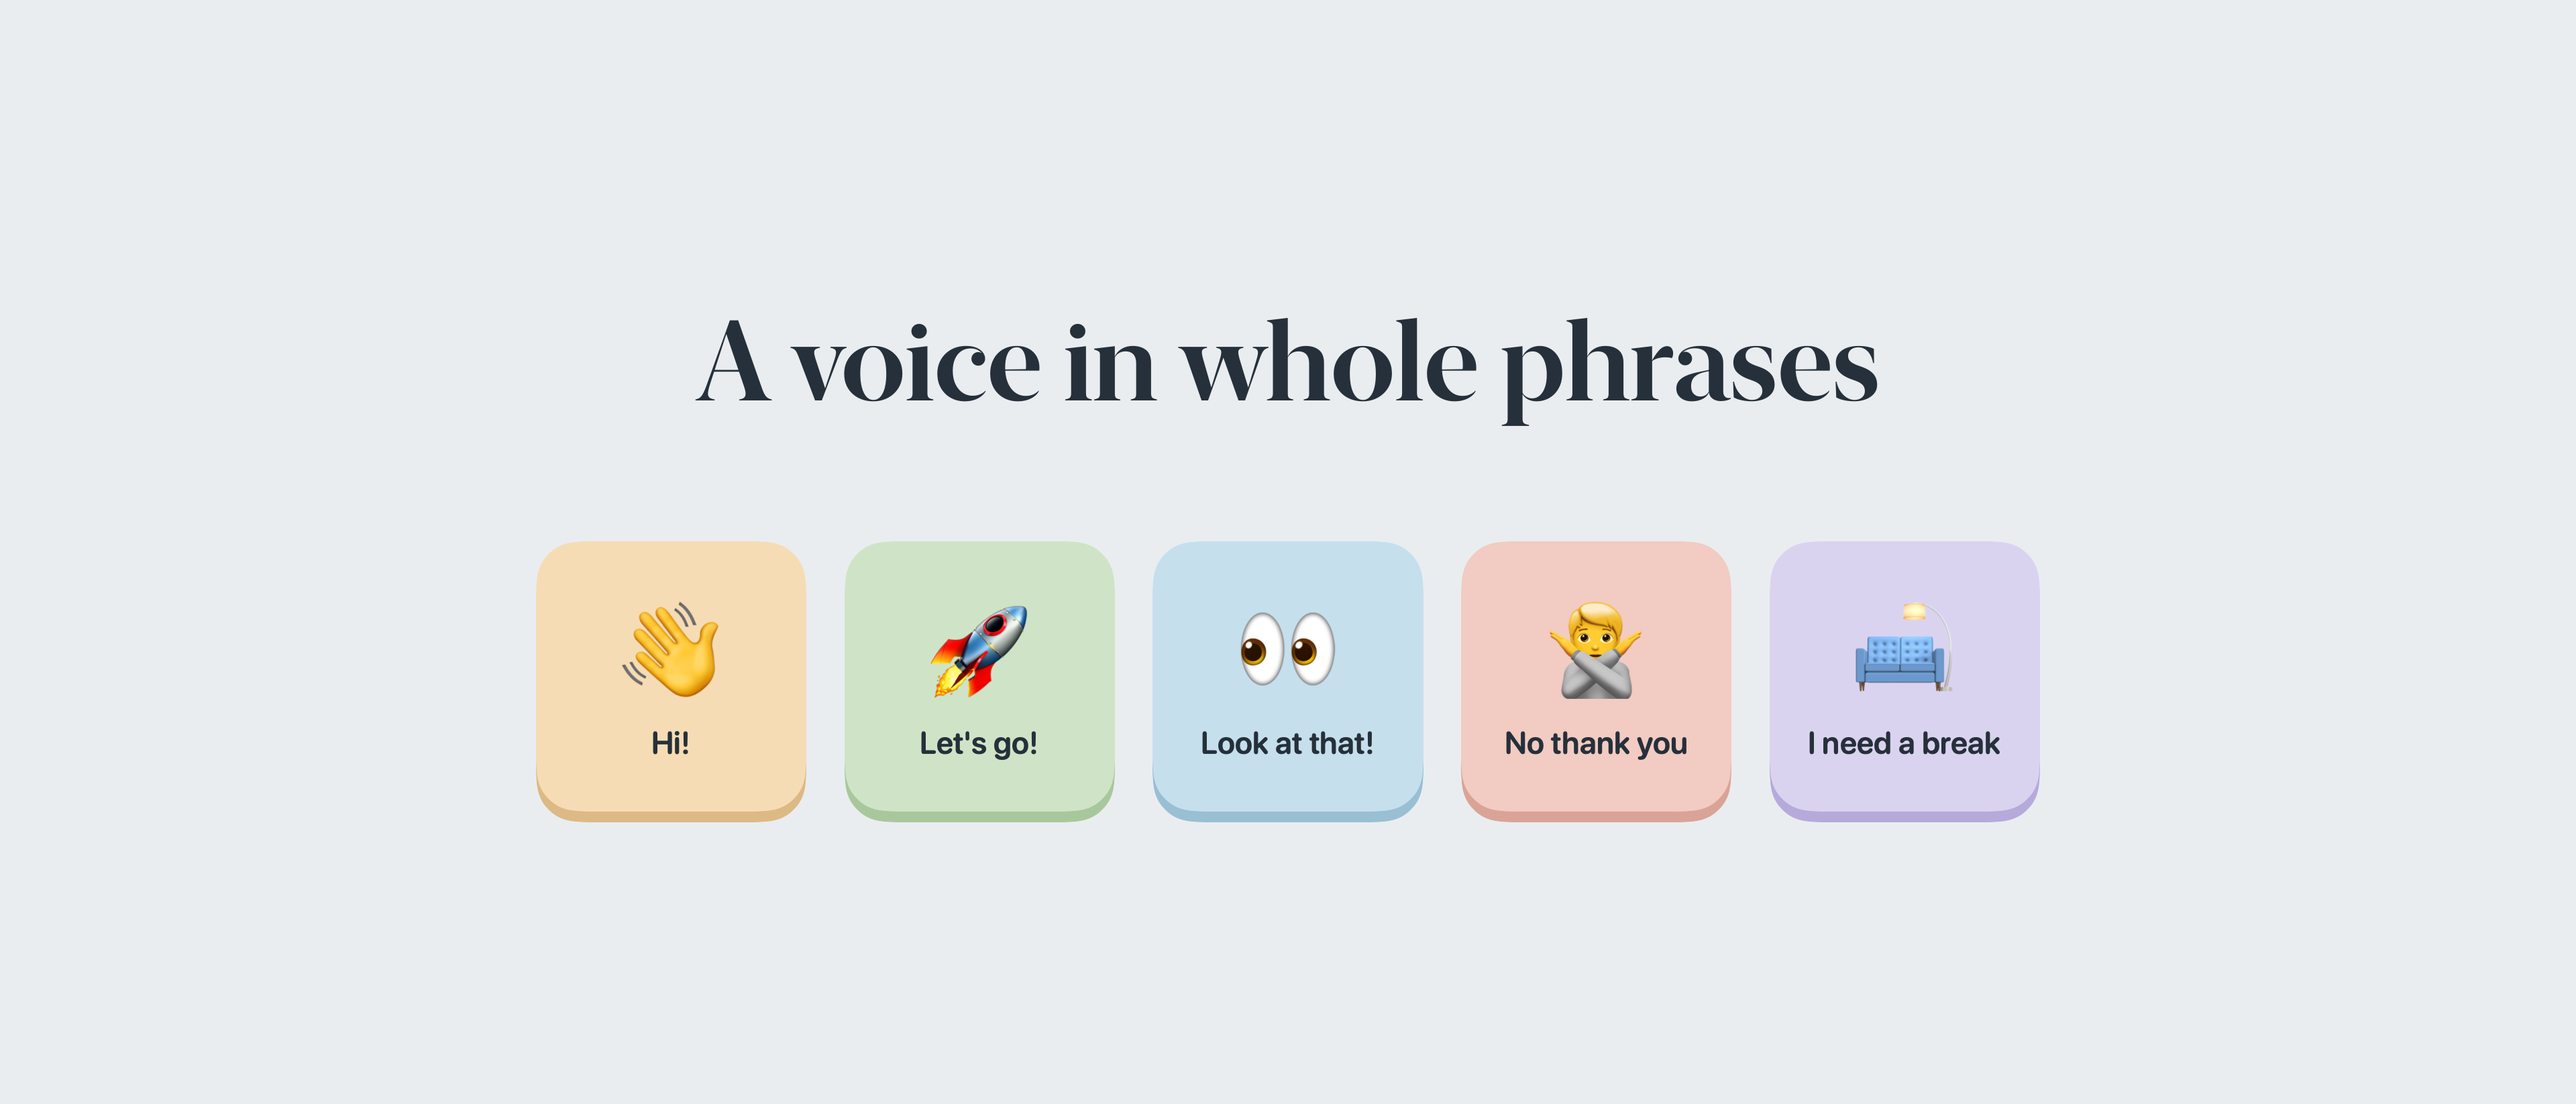
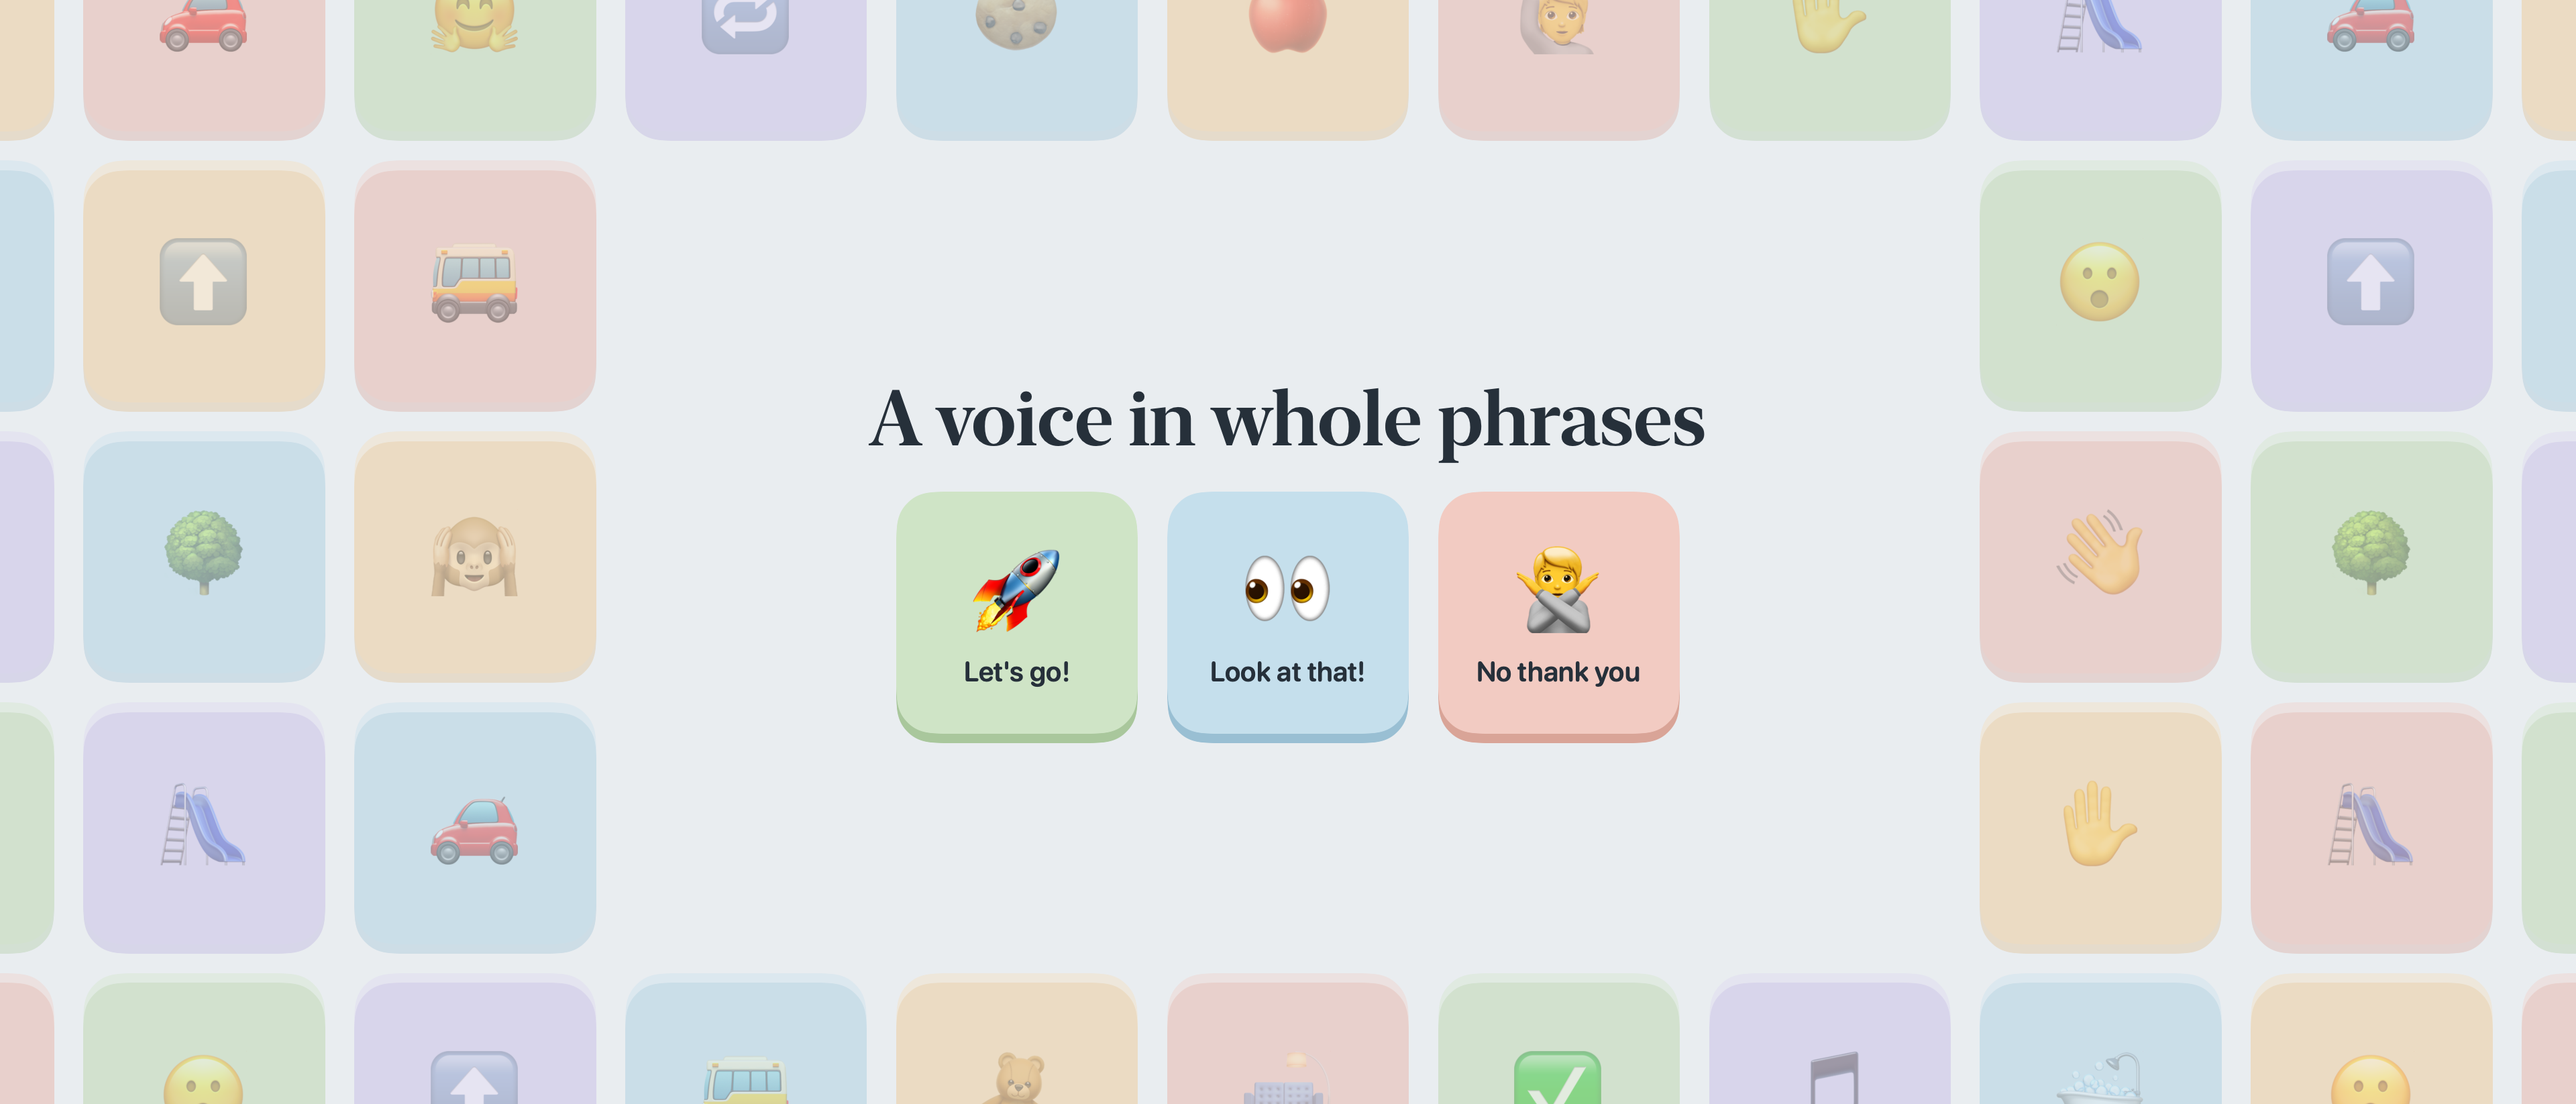
App Store header assets: keep the title and tiles in Apple's safe area (#30)
In App Store Connect's preview the header was cropped on iPhone: the
row of five tiles ran almost the full width, while the universal
asset's art safe area is only 1402 x 962 in the middle of 5244 x 2950.

- Title and three tiles now sit inside the art safe area of each asset
  (from the creative assets specifications); faded tiles fill the rest
  and can be cropped anywhere.
- Renamed the 5244 x 2950 image to universal-5244x2950.png: it's the
  one image for both header and search results.
- The PNGs no longer have an alpha channel (the spec doesn't allow
  transparency). make-header.sh draws all three and strips alpha.

diff --git a/docs/app-store/header/make-header.swift b/docs/app-store/header/make-header.swift
@@ -1,7 +1,12 @@
 // Copyright 2026 The Hum Authors
 // SPDX-License-Identifier: Apache-2.0
 //
-// Renders the App Store header in Hum's style. Usage: swift make-header.swift <width> <height> <out.png> [zoom]
+// Draws the App Store product page header and search results assets in Hum's style.
+// Usage: swift make-header.swift <universal|header|search> <out.png>
+//
+// The title and three tiles stay inside Apple's "art safe area" for each asset, so no device crops
+// them. Faded tiles fill the rest of the canvas and can be cut off anywhere. The PNG has no alpha
+// channel: run it through `ffmpeg -pix_fmt rgb24` (make-header.sh does this).
 import SwiftUI
 import AppKit
 
@@ -9,60 +14,98 @@ func hex(_ v: UInt32) -> Color {
     Color(.sRGB, red: Double((v >> 16) & 0xFF) / 255, green: Double((v >> 8) & 0xFF) / 255, blue: Double(v & 0xFF) / 255)
 }
 
+/// Canvas size and art safe area of each asset (App Store Connect creative assets specifications).
+let assets: [String: (size: CGSize, safe: CGRect)] = [
+    "universal": (CGSize(width: 5244, height: 2950), CGRect(x: 1921, y: 660, width: 1402, height: 962)),
+    "header": (CGSize(width: 3840, height: 1646), CGRect(x: 1097, y: 493, width: 1646, height: 661)),
+    "search": (CGSize(width: 3840, height: 2560), CGRect(x: 836, y: 765, width: 2168, height: 1030)),
+]
+
+/// Tile colors (face, edge) from Hum's palette: apricot, moss, sky, rosehip, lavender.
+let palette: [(UInt32, UInt32)] = [(0xF6DCB4, 0xDDB985), (0xCFE4C6, 0xA9C79C), (0xC5DFEC, 0x99BFD3),
+                                   (0xF2CBC2, 0xD9A497), (0xDAD3F0, 0xB6AADB)]
+
 struct Tile: View {
-    let emoji: String, label: String, face: UInt32, edge: UInt32, side: CGFloat
+    let emoji: String, label: String, color: (UInt32, UInt32), side: CGFloat
     var body: some View {
         let corner = side * 0.16
         VStack(spacing: side * 0.06) {
             Text(emoji).font(.system(size: side * 0.36))
-            Text(label)
-                .font(.system(size: side * 0.115, weight: .semibold, design: .rounded))
-                .foregroundStyle(hex(0x26303A))
-                .multilineTextAlignment(.center)
-                .lineLimit(2)
-                .padding(.horizontal, side * 0.06)
+            if !label.isEmpty {
+                Text(label)
+                    .font(.system(size: side * 0.115, weight: .semibold, design: .rounded))
+                    .foregroundStyle(hex(0x26303A))
+                    .lineLimit(1)
+                    .minimumScaleFactor(0.5)
+                    .padding(.horizontal, side * 0.06)
+            }
         }
         .frame(width: side, height: side)
-        .background(RoundedRectangle(cornerRadius: corner).fill(hex(face)))
-        .background(RoundedRectangle(cornerRadius: corner).fill(hex(edge)).offset(y: side * 0.04))
+        .background(RoundedRectangle(cornerRadius: corner).fill(hex(color.0)))
+        .background(RoundedRectangle(cornerRadius: corner).fill(hex(color.1)).offset(y: side * 0.04))
     }
 }
 
-struct Header: View {
-    let size: CGSize
-    /// How much bigger than the header's tiles to draw them (the search results asset shows small).
-    let zoom: Double
+struct Artwork: View {
+    let size: CGSize, safe: CGRect
+    let background = ["👋", "🍎", "🧸", "🌳", "🙋", "🛋", "🙉", "✋", "✅", "🧃", "🛝", "🎵", "🐶", "🚗", "🛁", "🌙",
+                      "🤗", "😮", "😂", "🔁", "⬆", "🙌", "🍪", "🚌"]
     var body: some View {
-        // Keep everything in the middle: the App Store crops the header differently on each device.
-        let side = min(size.width * 0.105 * zoom, size.height * 0.27)
-        ZStack {
+        // The three tiles fill most of the safe area's width; the title sits above them.
+        let inner = safe.insetBy(dx: safe.width * 0.04, dy: safe.height * 0.06)
+        let gap: CGFloat = 0.12
+        let side = min(inner.width / (3 + 2 * gap), inner.height * 0.62)
+        let step = side * (1 + gap)
+        let titleSize = min(inner.width / 10.4, inner.height * 0.2)
+        ZStack(alignment: .topLeading) {
             hex(0xE9EDF0)
-            VStack(spacing: side * 0.42) {
-                Text("A voice in whole phrases")
-                    .font(.system(size: side * 0.42, weight: .semibold, design: .serif))
-                    .foregroundStyle(hex(0x26303A))
-                HStack(spacing: side * 0.14) {
-                    Tile(emoji: "👋", label: "Hi!", face: 0xF6DCB4, edge: 0xDDB985, side: side)
-                    Tile(emoji: "🚀", label: "Let's go!", face: 0xCFE4C6, edge: 0xA9C79C, side: side)
-                    Tile(emoji: "👀", label: "Look at that!", face: 0xC5DFEC, edge: 0x99BFD3, side: side)
-                    Tile(emoji: "🙅", label: "No thank you", face: 0xF2CBC2, edge: 0xD9A497, side: side)
-                    Tile(emoji: "🛋", label: "I need a break", face: 0xDAD3F0, edge: 0xB6AADB, side: side)
+            // Faded tiles on a grid across the whole canvas, leaving the safe area clear.
+            let clear = safe.insetBy(dx: -side * 0.15, dy: -side * 0.15)
+            let columns = Int((size.width / step).rounded(.up)) + 2, rows = Int((size.height / step).rounded(.up)) + 2
+            let origin = CGPoint(x: safe.midX - step * CGFloat(columns / 2) - side / 2,
+                                 y: safe.midY - step * CGFloat(rows / 2) - side / 2)
+            ForEach(0..<rows, id: \.self) { row in
+                ForEach(0..<columns, id: \.self) { column in
+                    let frame = CGRect(x: origin.x + CGFloat(column) * step, y: origin.y + CGFloat(row) * step,
+                                       width: side, height: side)
+                    if !frame.intersects(clear) {
+                        let i = row * 7 + column * 3
+                        Tile(emoji: background[i % background.count], label: "", color: palette[i % palette.count], side: side)
+                            .opacity(0.35)
+                            .offset(x: frame.minX, y: frame.minY)
+                    }
                 }
             }
+            VStack(spacing: inner.height * 0.07) {
+                Text("A voice in whole phrases")
+                    .font(.system(size: titleSize, weight: .semibold, design: .serif))
+                    .foregroundStyle(hex(0x26303A))
+                    .lineLimit(1)
+                    .minimumScaleFactor(0.5)
+                HStack(spacing: side * gap) {
+                    Tile(emoji: "🚀", label: "Let's go!", color: palette[1], side: side)
+                    Tile(emoji: "👀", label: "Look at that!", color: palette[2], side: side)
+                    Tile(emoji: "🙅", label: "No thank you", color: palette[3], side: side)
+                }
+            }
+            .frame(width: inner.width, height: inner.height)
+            .offset(x: inner.minX, y: inner.minY)
         }
-        .frame(width: size.width, height: size.height)
+        .frame(width: size.width, height: size.height, alignment: .topLeading)
+        .clipped()
     }
 }
 
 let args = CommandLine.arguments
-let size = CGSize(width: Double(args[1])!, height: Double(args[2])!)
-let zoom = args.count > 4 ? Double(args[4])! : 1
+guard args.count == 3, let asset = assets[args[1]] else {
+    print("Usage: swift make-header.swift <universal|header|search> <out.png>"); exit(1)
+}
 MainActor.assumeIsolated {
-    let renderer = ImageRenderer(content: Header(size: size, zoom: zoom))
+    let renderer = ImageRenderer(content: Artwork(size: asset.size, safe: asset.safe))
     renderer.scale = 1
     guard let image = renderer.nsImage, let tiff = image.tiffRepresentation,
           let png = NSBitmapImageRep(data: tiff)?.representation(using: .png, properties: [:]) else {
         fatalError("render failed")
     }
-    try! png.write(to: URL(fileURLWithPath: args[3]))
+    try! png.write(to: URL(fileURLWithPath: args[2]))
 }

diff --git a/docs/app-store/README.md b/docs/app-store/README.md
@@ -15,12 +15,19 @@
 
 Hum has no Apple Watch app, so the Apple Watch tab stays empty.
 
-`header/` has the optional header for the "Header and Search Results" tab, in both supported sizes
-(5244 × 2950 and 3840 × 1646). Everything sits in the middle because the App Store crops the header
-differently on each device; check it with that tab's Preview button. The same folder has the
-optional Search Results asset (3840 × 2560), the same design with bigger tiles because it shows small.
-`make-header.swift` draws both: `swift make-header.swift 5244 2950 out.png` for the header, and
-`swift make-header.swift 3840 2560 out.png 1.3` for search results.
+`header/` has the optional assets for the "Header and Search Results" tab. App Store Connect crops them
+differently on each device, so the title and the three tiles stay inside Apple's "art safe area" for each
+one, and faded tiles fill the rest (they can be cut off anywhere):
+
+| File | Use | Size | Art safe area |
+|---|---|---|---|
+| `universal-5244x2950.png` | Header and search results, one image for both | 5244 × 2950 | 1402 × 962 at (1921, 660) |
+| `header-3840x1646.png` | Header only | 3840 × 1646 | 1646 × 661 at (1097, 493) |
+| `search-results-3840x2560.png` | Search results only | 3840 × 2560 | 2168 × 1030 at (836, 765) |
+
+Upload either the universal image, or the header and search results images. The PNGs have no alpha
+channel (App Store Connect refuses transparency). Check the crop with that tab's Preview button.
+`header/make-header.sh` draws all three (it needs ffmpeg).
 
 The screenshots use Hum's demo board (`-uiTesting -skipFirstRun -demoFolder -demoHistory`) on iOS 27
 simulators, with the status bar set to 9:41 and a full battery
